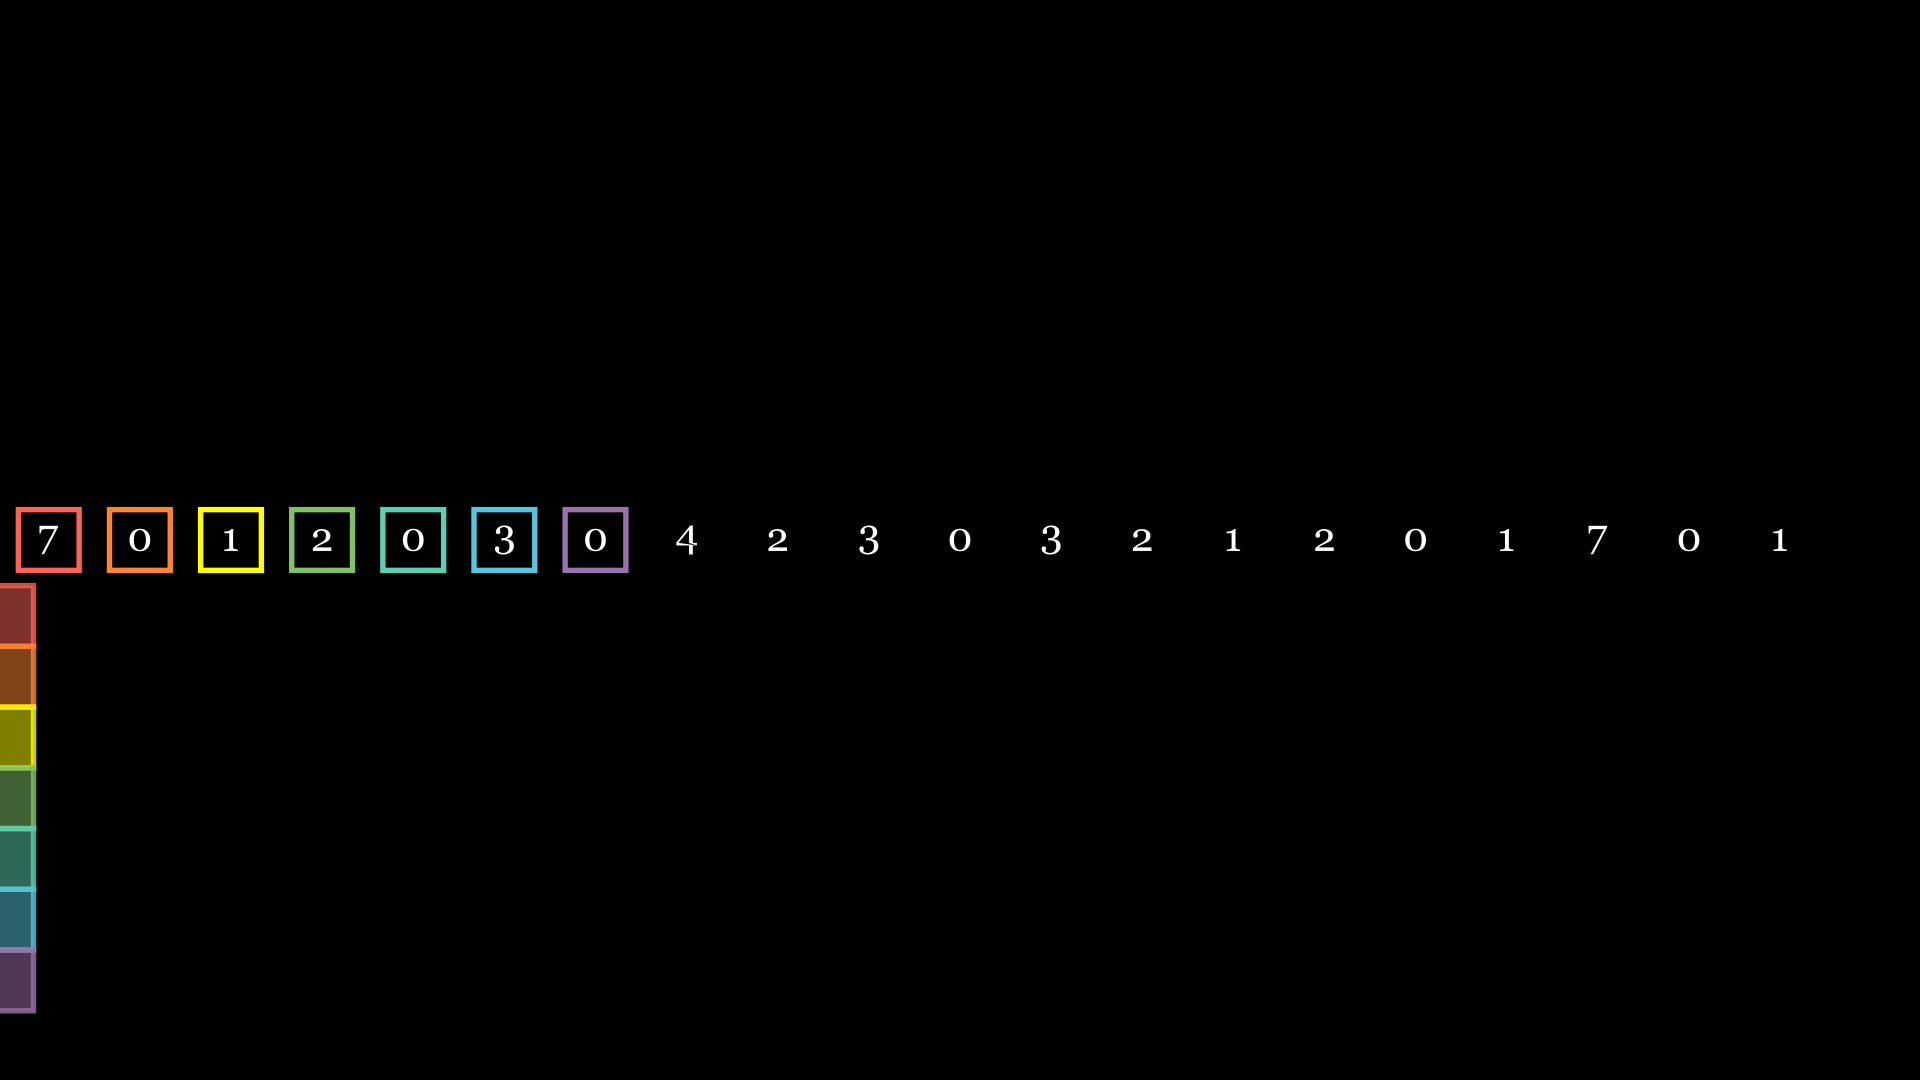
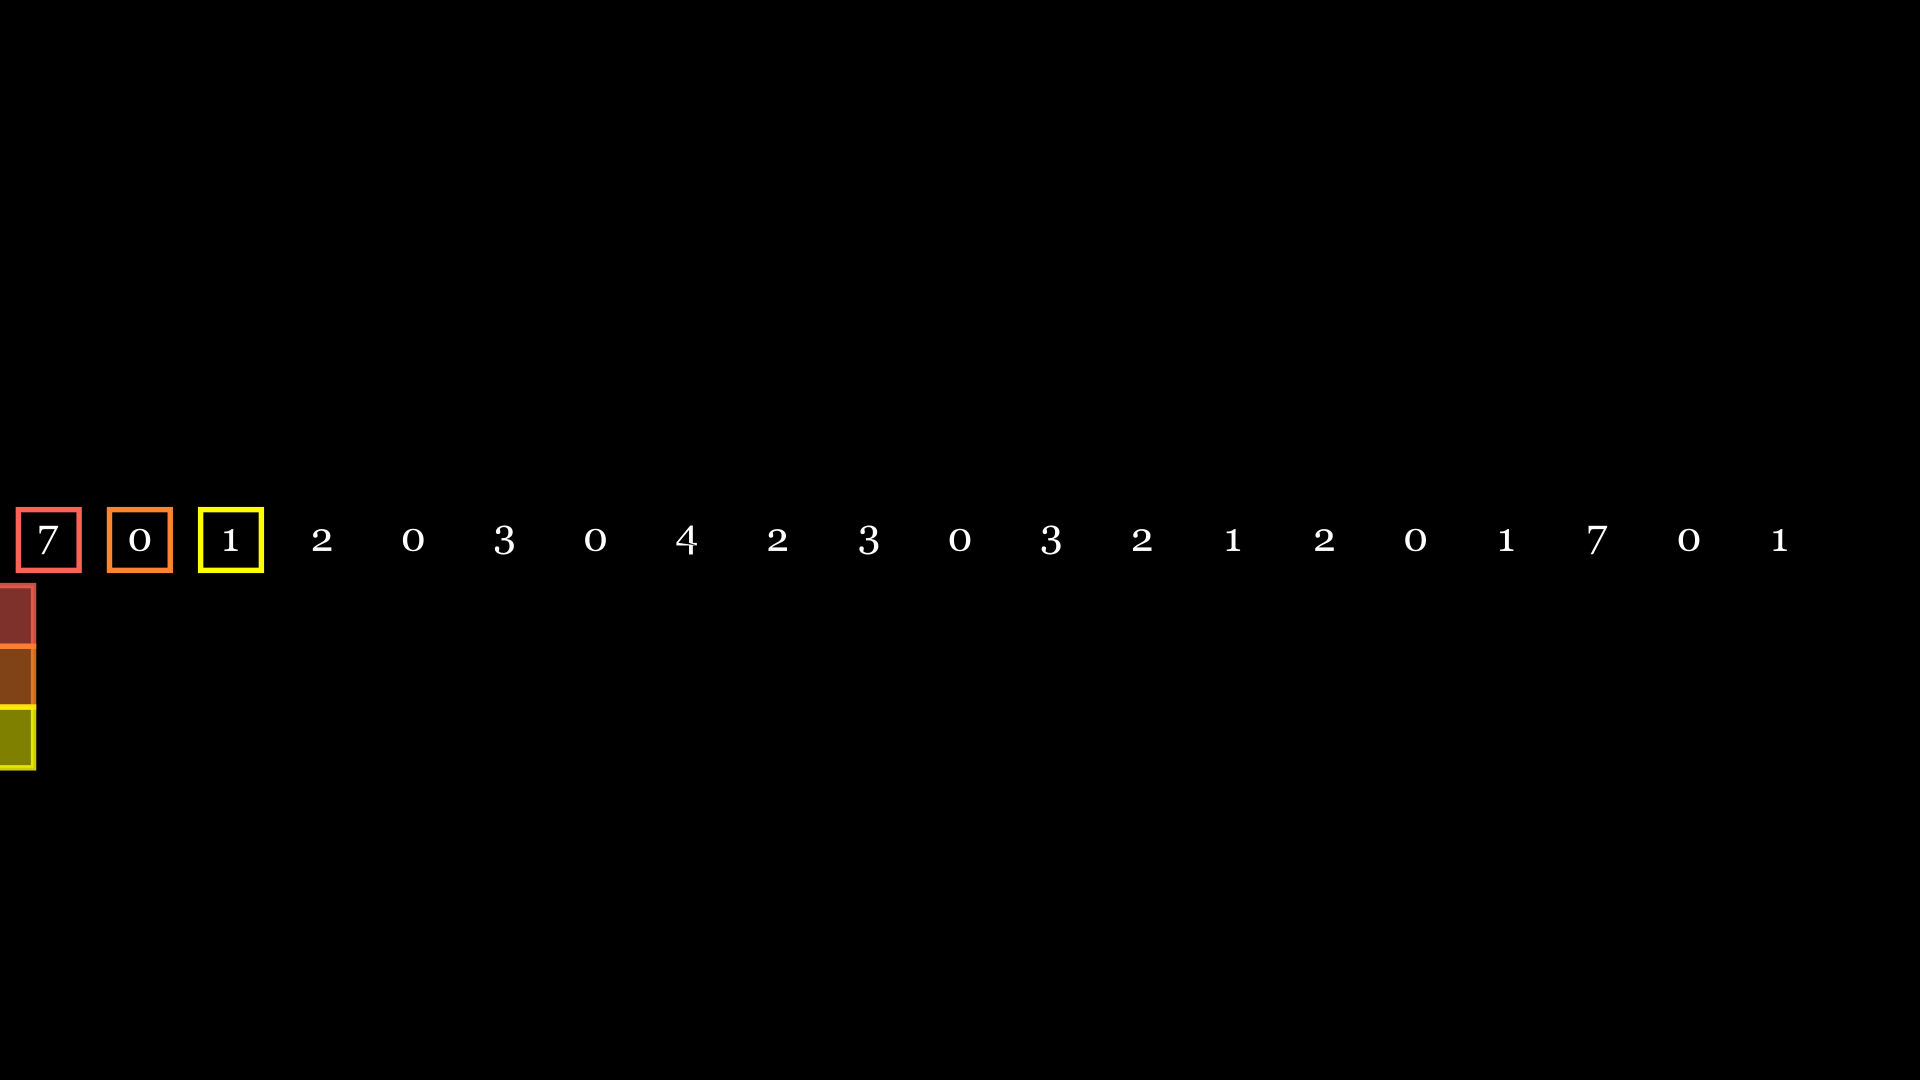
rainbow_yu page_replacement

Changed region(s): [[0.1562, 0.4583, 0.3438, 0.55], [0.0, 0.7028, 0.0312, 0.9472]]

diff --git a/yty_manim/application/page_replacement.py b/yty_manim/application/page_replacement.py
@@ -13,6 +13,25 @@ __all__ = (
 
 
 class Page(VGroup):
+    """
+    页面，
+    继承于 :class:`~.VGroup` ，
+
+    Notes
+    -----
+
+    - 常用于操作系统中页面置换算法的演示
+
+    Examples
+    --------
+
+    创建页面:
+
+    >>> class PageTest(Scene):
+    >>>     def construct(self):
+    >>>         p = Page([7,0,1,2,0,3,0,4,2,3,0,3,2,1,2,0,1,7,0,1," "],7)
+    >>>         self.add(p)
+    """
     def __init__(
             self,
             page_lst: list,
@@ -61,6 +80,22 @@ class Page(VGroup):
 
 
 class PageReplacement(Page):
+    """
+    页面置换，
+    继承于 :class:`~.Page` ，
+
+    Notes
+    -----
+
+    - 通过保留接口完成页面置换算法每步演示
+
+    Examples
+    --------
+
+    页面置换步进:
+
+
+    """
     def __init__(
             self,
             page_lst: list,
@@ -70,6 +105,17 @@ class PageReplacement(Page):
         self.page_frame_lst = []
 
     def cal_func(self, step):
+        """
+        页面置换算法接口，继承后重写课改变页面置换搜索逻辑，
+        下面给出几种经典的页面置换算法继承：
+         - OPT
+         - LRU
+         - FIFO
+         - CLOCK
+         - 改进型CLOCK
+
+        :param step: 当前步骤
+        """
         pass
 
     def step_on(self, step):
@@ -77,6 +123,9 @@ class PageReplacement(Page):
 
 
 class OptPageReplacement(PageReplacement):
+    """
+    OPT页面置换算法
+    """
     def cal_func(self, step):
         def get_opt(step):
             for i in range(step + 1, len(self.page_lst)):
@@ -88,7 +137,7 @@ class OptPageReplacement(PageReplacement):
             self.page_frame_lst.append(get_opt(step))
             return step, get_opt(step)
         else:
-            for j in range(3):
+            for j in range(self.page_frame_num):
                 if self.page_lst[step] == self.page_lst[self.page_frame_lst[j]]:
                     self.page_frame_lst[j] = get_opt(step)
                     return j, get_opt(step)
